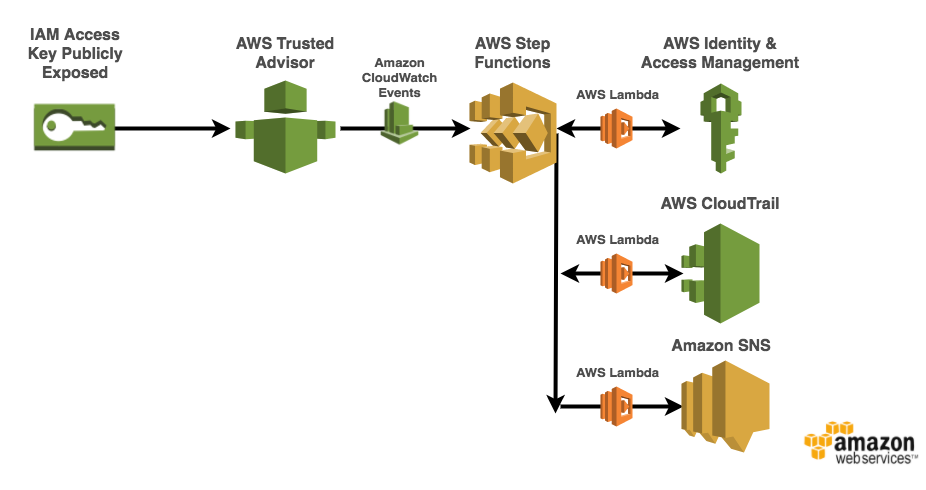
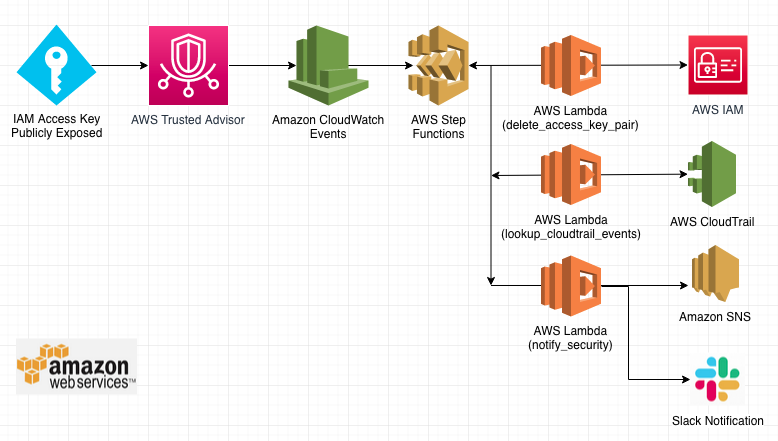
Manas: Updated for Py3.9 and email & slack notification

diff --git a/ExposedAccessKeys/lambda_functions/notify_security.py b/ExposedAccessKeys/lambda_functions/notify_security.py
@@ -1,7 +1,19 @@
+############################################################
+#Author: Manas Satpathi
+#Company: AWS
+#Date: January, 2023
+#Notes: Updated to send email & slack notification
+############################################################
 import os
+import sys
 import boto3
 
+import json
+import urllib.parse
+import urllib.request
+
 TOPIC_ARN = os.environ['TOPIC_ARN']  # ARN for SNS topic to post message to
+slack_webhook_url = os.environ['SlackWebhook_URL']
 
 TEMPLATE = '''At {} the IAM access key {} for user {} on account {} was deleted after it was found to have been exposed at the URL {}.
 Below are summaries of the most recent actions, resource names, and resource types associated with this user over the last 24 hours.
@@ -19,7 +31,6 @@ These are summaries of only the most recent API calls made by this user. Please 
 
 sns = boto3.client('sns')
 
-
 def lambda_handler(event, context):
     account_id = event['account_id']
     username = event['username']
@@ -29,7 +40,8 @@ def lambda_handler(event, context):
     event_names = event['event_names']
     resource_names = event['resource_names']
     resource_types = event['resource_types']
-    subject = 'Security Alert: Exposed IAM Key For User {} On Account {}'.format(username, account_id)
+    subject = 'Security Alert! IAM Access Key Exposed For User {} On Account {}!!'.format(username, account_id)
+    subject2 = ' An email is sent with details.'
     print("Generating message body...")
     event_summary = generate_summary_str(event_names)
     rname_summary = generate_summary_str(resource_names)
@@ -46,6 +58,12 @@ def lambda_handler(event, context):
     print("Publishing message...")
     publish_msg(subject, message)
 
+    if(len(slack_webhook_url) == 0):
+        print("Slack_URL is empty!")
+    else:
+        print("Sending Slack notification")
+        print("Got SlackWebhookURL {}".format(slack_webhook_url))
+        notify_slack(subject, subject2)
 
 def generate_summary_str(summary_items):
     """ Generates formatted string containing CloudTrail summary info.
@@ -59,7 +77,6 @@ def generate_summary_str(summary_items):
 
     """
     return '\t' + '\n\t'.join('{}: {}'.format(item[0], item[1]) for item in summary_items)
-
 
 def publish_msg(subject, message):
     """ Publishes message to SNS topic.
@@ -83,3 +100,32 @@ def publish_msg(subject, message):
         print(e)
         print('Could not publish message to SNS topic "{}"'.format(TOPIC_ARN))
         raise e
+
+print("============= Post to Slack ===========")
+
+def notify_slack(subject, subject2):
+
+   data = "{content:" + '"' + subject + subject2 +'"}'
+
+   headers = {
+      'Content-type': 'application/json'
+   }
+
+   ## USING Python "urllib" instead
+
+   data = data.encode('ascii')
+
+   headers = {}
+   headers['Content-Type'] = "application/json"
+
+   ## Send the request
+   print("URL = ", slack_webhook_url)
+   req = urllib.request.Request(slack_webhook_url, data=data, headers=headers)
+   resp = urllib.request.urlopen(req)
+
+   ## Receive the response
+   print("RESPONSE: ", resp)
+
+   return {
+     'statusCode': 200
+   }
